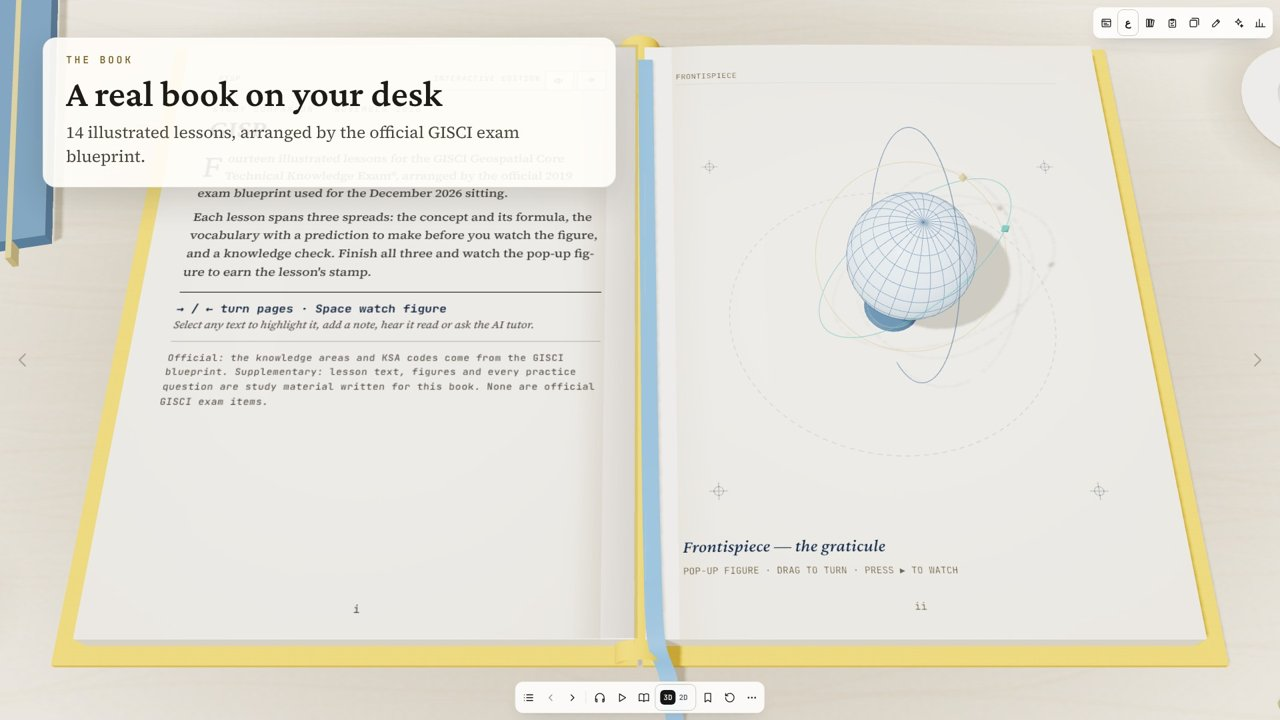
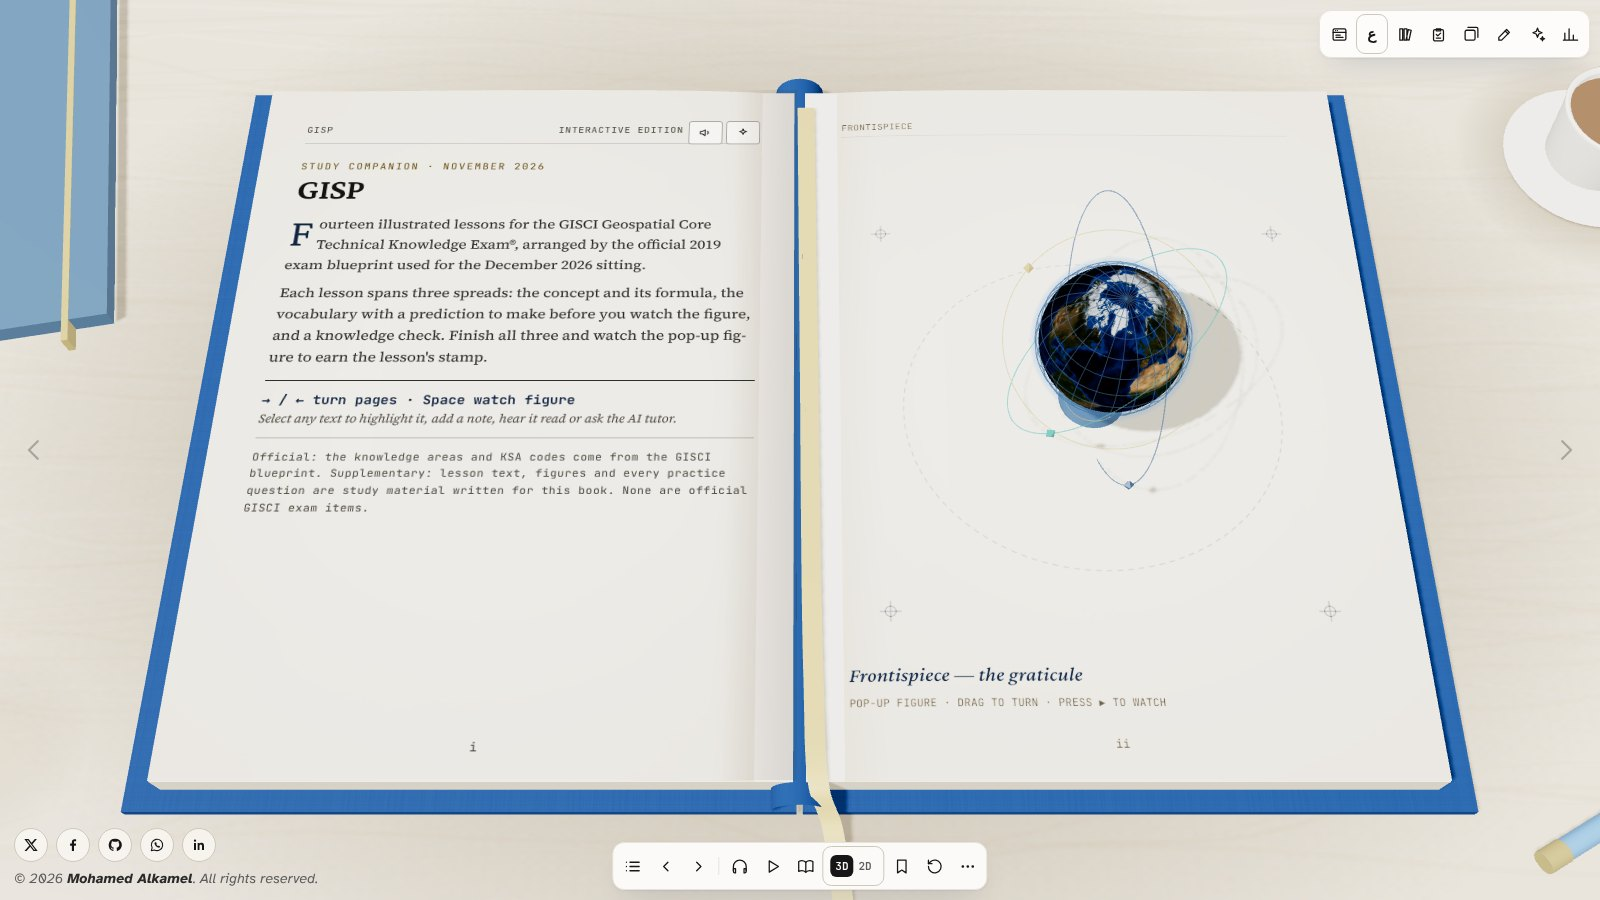
Refresh README screenshots for the blue hardcover and real-Earth figures
Claude-Session: https://claude.ai/code/session_013Zvgo4AzHLg6mAF7h5wibN

diff --git a/README.md b/README.md
@@ -2,7 +2,9 @@
 
 An interactive study book for the **GISCI Geospatial Core Technical Knowledge Exam (GISP)**. It looks like a real hardcover book on a desk: it starts closed under a blue cloth cover with a gold title, and you click the cover to open it. Going back from the first page closes it again. The left page holds the lesson. The right page holds a pop-up 3D figure that explains the concept step by step.
 
-![The 3D study book](media/screenshot-book.jpg)
+| Closed: click the cover to open | Open: lesson on the left, live 3D figure on the right |
+|---|---|
+| ![The closed book with its blue cover](media/screenshot-cover.jpg) | ![The open book](media/screenshot-book.jpg) |
 
 ## What's inside
 
@@ -19,7 +21,7 @@ An interactive study book for the **GISCI Geospatial Core Technical Knowledge Ex
 | **Your own documents** | Add a PDF or text file and read it as a book in the same reader |
 | **2D / 3D** | Switch between the 3D perspective view and a flat 2D plan view |
 
-| Pop-up figure | Predict, then reveal | Arabic edition |
+| Mercator on the knowledge-check page | Predict, then reveal | Arabic edition |
 |---|---|---|
 | ![](media/screenshot-figure.jpg) | ![](media/screenshot-predict.jpg) | ![](media/screenshot-arabic.jpg) |
 
